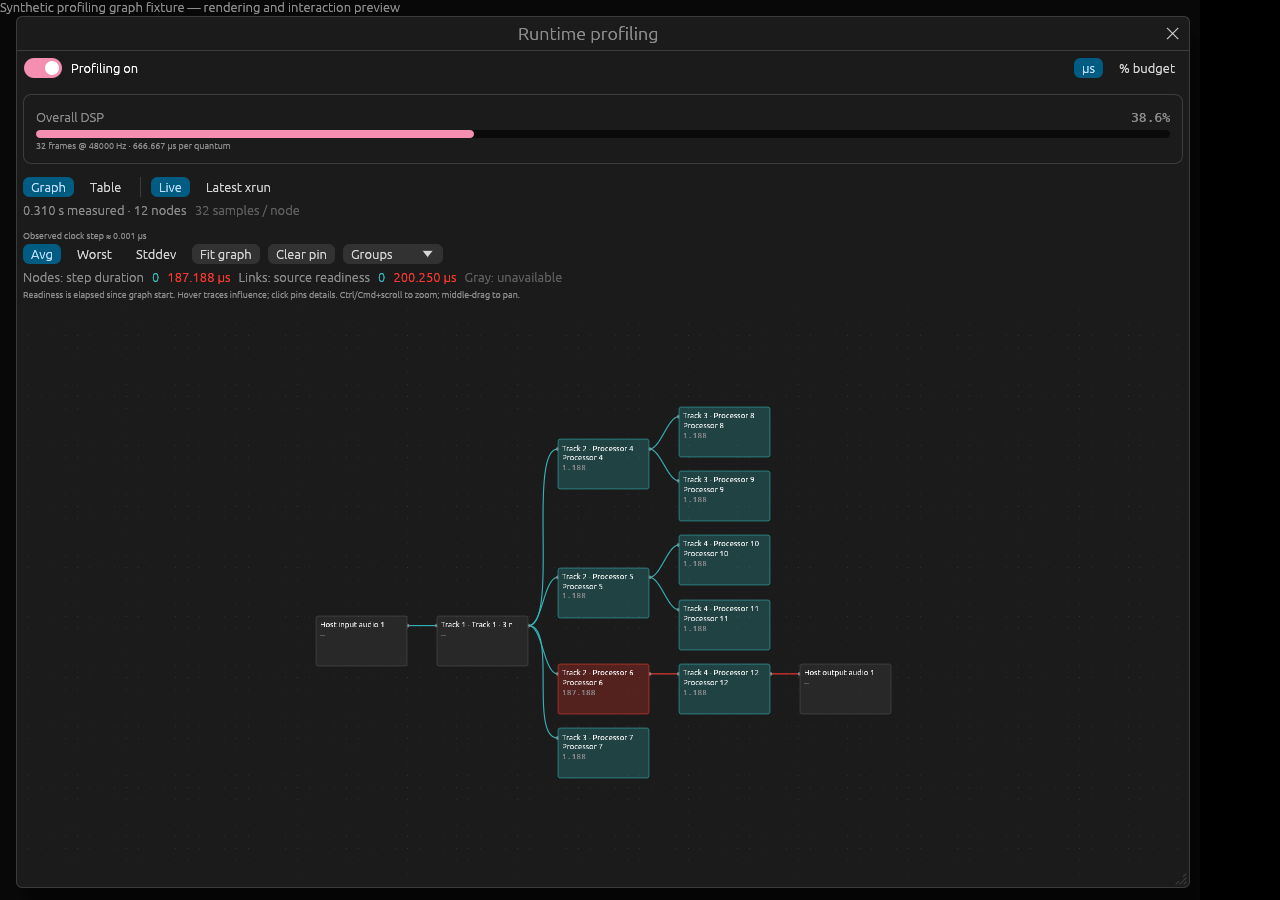
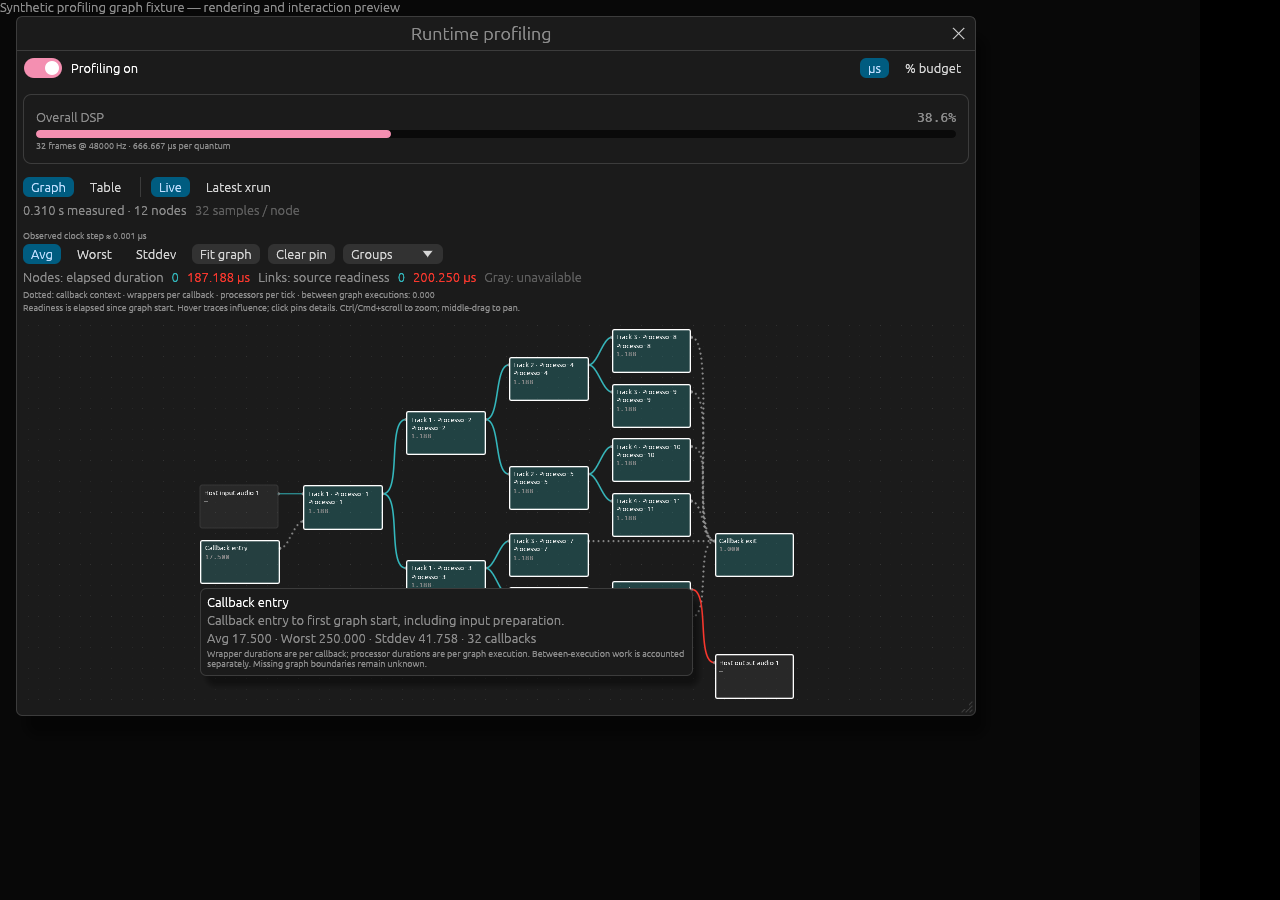
Clarify callback context links and document wrapper inspection

diff --git a/src/rust/shoop_egui/src/profiling/graph.rs b/src/rust/shoop_egui/src/profiling/graph.rs
@@ -1010,7 +1010,11 @@ impl State {
                                 } else {
                                     1.8
                                 },
-                                color(value, ready_max),
+                                if edge.context {
+                                    egui::Color32::from_gray(150)
+                                } else {
+                                    color(value, ready_max)
+                                },
                             );
                             let widget = Edge::new(edge.source, edge.destination, &mut selected)
                                 .distance_per_point(2. / scale)

diff --git a/PLAN_PROFILING_GRAPH.md b/PLAN_PROFILING_GRAPH.md
@@ -475,3 +475,13 @@ wire-count fixture receive focused reruns. All 134 Python checks and the test
 attribute, tracing (427 modules), parity and dependency-boundary gates pass.
 Fresh Wasm/browser, final release measurements, screenshots and delivery checks
 remain in progress; Stage 6 stays open until their evidence is recorded.
+
+
+The fresh Node/Wasm run passes all ten affected packages (including 21 collector,
+244 egui and 40 backend tests). The built worklet contract passes codec worker,
+profiling timestamp/capture/toggle and production AudioWorklet checks. Fresh native
+socket/shared-memory probes pass profiling names, toggles, recording/recovery and
+shutdown. Updated synthetic screenshots show interval wrapper statistics and
+actual whole-callback costs beside the selected-tick timeline. Dotted context
+links use a neutral stroke that remains visible at overview zoom. Chrome and
+isolated production browser runs, final measurements and CI remain pending.

diff --git a/docs/runtime_profiling.md b/docs/runtime_profiling.md
@@ -108,11 +108,11 @@ cannot distinguish preemption from work. Receiving, truncation, loss and clock
 resolution remain visible. Old detail responses are ignored after changing the
 selection, capture, graph generation or connection.
 
-The native preview below uses prescribed synthetic timestamps. It shows a collapsed
-track, a processing hotspot, and selected-tick timing with the original callback
-deadline; it is not a recorded production incident.
+The native preview below uses prescribed synthetic timestamps. It shows callback
+entry statistics, a processing hotspot, dotted context dependencies and selected
+callback timing with the original deadline; it is not a recorded production incident.
 
-![Profiling graph with a collapsed track](images/profiling_graph.png)
+![Profiling graph with callback entry statistics](images/profiling_graph.png)
 
 ![Selected callback and tick timeline](images/profiling_graph_timeline.png)
 
